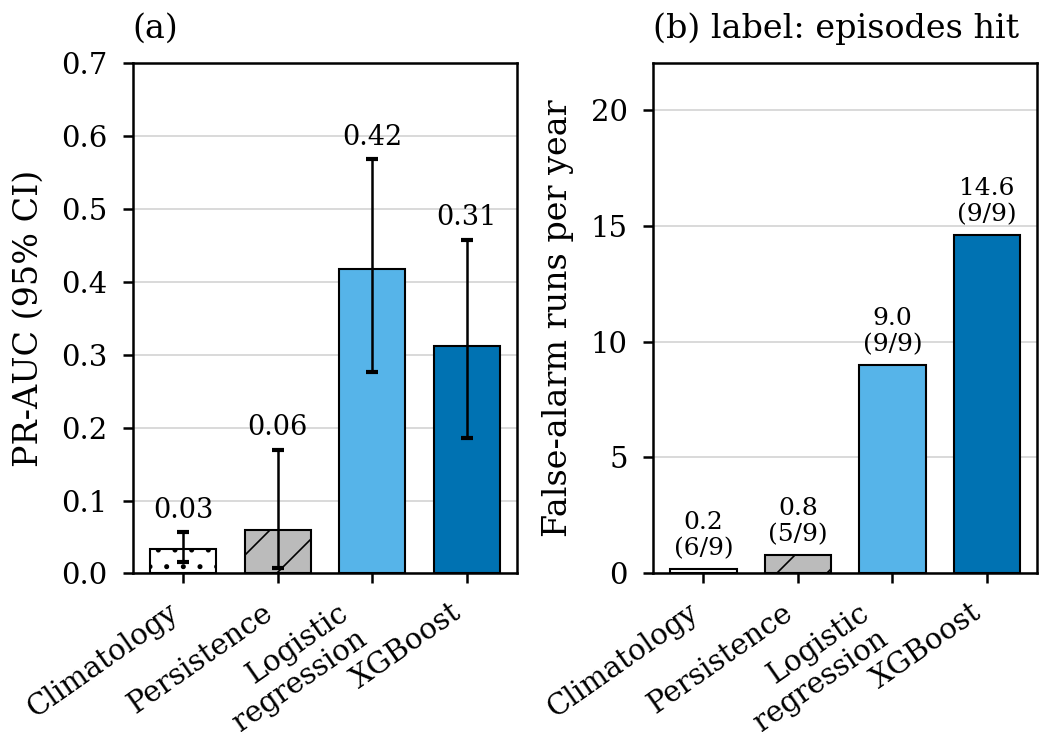
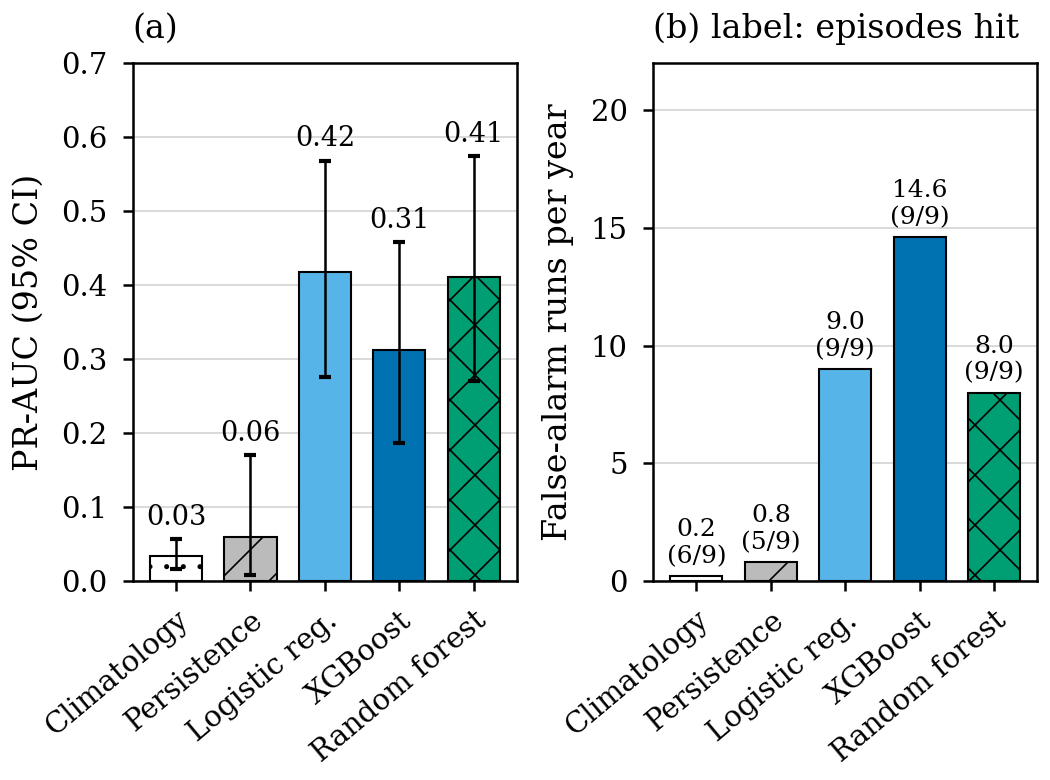
Add Random Forest to the heavy-rain model comparison

diff --git a/demo/ml/train.py b/demo/ml/train.py
@@ -19,6 +19,10 @@ Pre-declared before any result was seen (do not tune after looking at the test y
   The depth is chosen by validation average precision. Alert threshold: the one with the best F1 on validation.
 - Baselines on the same rows: monthly climatology, persistence (P(heavy next 24 h | last 24 h heavy)), and
   logistic regression on the same features.
+- Random Forest (added 2026-10-31 at the faculty's request, after the first test results had been seen; its
+  settings below were fixed before it was run on the test years): 300 trees, max_features sqrt, min_samples_leaf 20,
+  each tree on a 25% bootstrap sample, seed 7; max_depth in {8, 12, 16} chosen by validation average precision.
+  It is evaluated last so the earlier models' numbers and bootstrap draws are unchanged.
 - Intervals: 95% bootstrap over IST days (1,000 resamples), because neighbouring hours share 23 of 24 label hours.
 - No comparison with numerical weather prediction was made: Open-Meteo's historical forecast archive joins the
   first hours of successive model runs, so it is not a 24-hour-ahead forecast.
@@ -45,6 +49,7 @@ import time
 
 import numpy as np
 import xgboost as xgb
+from sklearn.ensemble import RandomForestClassifier
 from sklearn.linear_model import LogisticRegression
 from sklearn.metrics import average_precision_score, brier_score_loss, roc_auc_score
 from sklearn.preprocessing import StandardScaler
@@ -61,6 +66,7 @@ HORIZON = 24
 CENTRE = (13.0, 80.25)
 TRAIN, VAL, TEST = range(2000, 2017), range(2017, 2020), range(2020, 2025)
 DEPTHS = [2, 3, 4]
+RF_DEPTHS = [8, 12, 16]
 SEED = 7
 BOOT = 1000
 
@@ -220,12 +226,23 @@ def main():
     depth, n_trees, _, model = max(grid, key=lambda g: g[2])
     booster = model.get_booster()[: n_trees]
 
+    # Random Forest: depth by validation average precision, like XGBoost
+    rf_grid = []
+    for d in RF_DEPTHS:
+        f = RandomForestClassifier(n_estimators=300, max_depth=d, max_features="sqrt", min_samples_leaf=20, max_samples=0.25, n_jobs=-1, random_state=SEED)
+        f.fit(tr["X"], tr["y"])
+        ap = average_precision_score(va["y"], f.predict_proba(va["X"])[:, 1])
+        rf_grid.append((d, ap, f))
+        print(f"random forest depth {d}: validation AP {ap:.4f}")
+    rf_depth, _, forest = max(rf_grid, key=lambda g: g[1])
+
     def predictors():
         return {
             "Climatology (month)": lambda d: np.array([clim[m] for m in d["month"]]),
             "Persistence (last 24 h heavy)": lambda d: np.where(d["X"][:, 4] >= HEAVY_MM, pers[True], pers[False]),
             "Logistic regression": lambda d: logreg.predict_proba(scaler.transform(d["X"]))[:, 1],
             "XGBoost (proposed)": lambda d: booster.predict(xgb.DMatrix(d["X"])),
+            "Random Forest": lambda d: forest.predict_proba(d["X"])[:, 1],
         }
 
     rng = np.random.default_rng(SEED)
@@ -278,7 +295,7 @@ def main():
     imp = booster.get_score(importance_type="gain")
     imp = sorted(((FEATURES[int(k[1:])], v) for k, v in imp.items()), key=lambda kv: -kv[1])
 
-    write_report(counts, grid, depth, n_trees, rows, ep_rows, imp, thr, time.time() - t0)
+    write_report(counts, grid, depth, n_trees, rows, ep_rows, imp, thr, time.time() - t0, rf_grid, rf_depth)
     write_csv(rows)
 
 
@@ -286,7 +303,7 @@ def fmt_ci(v, ci):
     return f"{v:.3f} ({ci[0]:.3f}–{ci[1]:.3f})" if ci else f"{v:.3f}"
 
 
-def write_report(counts, grid, depth, n_trees, rows, ep_rows, imp, thr, secs):
+def write_report(counts, grid, depth, n_trees, rows, ep_rows, imp, thr, secs, rf_grid, rf_depth):
     L = []
     L.append("# Heavy-rain risk model (XGBoost)\n")
     L.append("Predicts the probability that the next 24 hours bring at least 64.5 mm of rain (IMD \"heavy rain\") in an ERA5 cell, from the weather up to now.")
@@ -303,6 +320,11 @@ def write_report(counts, grid, depth, n_trees, rows, ep_rows, imp, thr, secs):
     for d, n, ap, _ in grid:
         L.append(f"| {d} | {n} | {ap:.4f} |")
     L.append(f"\nChosen: max_depth {depth}, {n_trees} trees. Alert threshold {thr:.3f} (best F1 on validation).\n")
+    L.append("Random Forest (300 trees):\n")
+    L.append("| max_depth | Validation average precision |\n|---:|---:|")
+    for d, ap, _ in rf_grid:
+        L.append(f"| {d} | {ap:.4f} |")
+    L.append(f"\nChosen: max_depth {rf_depth}.\n")
     L.append("## Test results, Chennai cell (2020–2024)\n")
     L.append("ROC-AUC, PR-AUC and Brier with 95% bootstrap intervals over days. Thresholds were fixed on validation. Episode hit: at least one hour of the episode at or above the threshold. False-alarm runs: runs of alert hours that overlap no positive hour.\n")
     L.append("| Model | ROC-AUC | PR-AUC | Brier | Precision | Recall (hours) | Episodes hit | False-alarm runs / year |\n|---|---:|---:|---:|---:|---:|---:|---:|")
@@ -333,7 +355,7 @@ def write_report(counts, grid, depth, n_trees, rows, ep_rows, imp, thr, secs):
     L.append("- All nine training cells are within about 40 km of each other, so they are not independent samples.")
     L.append("- The most important feature is rain in the last 6 hours, and several episodes were first alerted after they began. Part of the episode hit rate comes from rain already falling: this is a nowcast of a heavy-rain day, not a long-lead early warning.")
     L.append("- The lead column searches from 48 hours before an episode, so an alert from an earlier, unrelated wet spell can appear as a long lead (for example a low peak probability with a large negative lead).")
-    L.append("- Logistic regression on the same features matched or beat XGBoost on the test years. XGBoost was the pre-declared model and is kept in the app; the test set was not used to choose between them.")
+    L.append("- Logistic regression and Random Forest on the same features both matched or beat XGBoost on the test years (Random Forest had the fewest false alarms). XGBoost was the pre-declared model and is kept in the app; the test set was not used to choose between them.")
     (RESULTS / "xgboost.md").write_text("\n".join(L) + "\n")
 
 

diff --git a/demo/figures/make_figures.py b/demo/figures/make_figures.py
@@ -621,8 +621,9 @@ def fig_priority():
 XGB_MODELS = [
     ("Climatology (month)", "Climatology", "white", "..."),
     ("Persistence (last 24 h heavy)", "Persistence", GREY, "//"),
-    ("Logistic regression", "Logistic\nregression", SKY, None),
+    ("Logistic regression", "Logistic reg.", SKY, None),
     ("XGBoost (proposed)", "XGBoost", BLUE, None),
+    ("Random Forest", "Random forest", GREEN, "xx"),
 ]
 
 
@@ -647,7 +648,7 @@ def fig_xgboost():
         fa.append(f)
         hits.append(md[name][6].replace(" of ", "/"))
 
-    fig, (ax_a, ax_b) = plt.subplots(1, 2, figsize=(SINGLE_W, 2.5), layout="constrained")
+    fig, (ax_a, ax_b) = plt.subplots(1, 2, figsize=(SINGLE_W, 2.6), layout="constrained")
     xs = range(len(XGB_MODELS))
     for x, (_, label, color, hatch), (m, lo, hi) in zip(xs, XGB_MODELS, pr):
         ax_a.bar(x, m, width=0.7, color=color, hatch=hatch, edgecolor=BLACK, linewidth=0.5,
@@ -664,7 +665,7 @@ def fig_xgboost():
     ax_b.set_title("(b) label: episodes hit", fontsize=8, loc="left")
     for ax in (ax_a, ax_b):
         ax.set_xticks(list(xs))
-        ax.set_xticklabels([label for _, label, *_ in XGB_MODELS], rotation=35, ha="right")
+        ax.set_xticklabels([label for _, label, *_ in XGB_MODELS], rotation=40, ha="right", rotation_mode="anchor")
         grid(ax, "y")
     save(fig, "fig_xgboost")
 

diff --git a/docs/DOCUMENTATION.md b/docs/DOCUMENTATION.md
@@ -588,8 +588,12 @@ Predicts the probability that the next 24 hours bring at least 64.5 mm of rain (
 - **Running in Node** (`heavyrain.js`): rebuilds the same features from the Open-Meteo forecast API's
   past hours and walks the exported trees (XGBoost JSON), comparing in float32 as XGBoost does. A test
   checks features and probabilities against Python on six fixture cases.
-- **Honest result**: logistic regression on the same features did as well or better on the test years
-  (Section 13). XGBoost was the pre-declared model and is kept; the test set was not used to choose.
+- **Comparison models** (same rows, features, split and threshold rule): monthly climatology,
+  persistence, logistic regression, and a Random Forest (300 trees, depth 8, 12 or 16 chosen on
+  validation; added at the faculty's request, its settings fixed before it saw the test years).
+- **Honest result**: logistic regression and Random Forest both did as well as or better than XGBoost on
+  the test years (Section 13). XGBoost was the pre-declared model and is kept in the app; the test set
+  was not used to choose.
 
 ---
 
@@ -664,7 +668,7 @@ each report before results. Values are mean ± 95% CI.
 | `priority.js --bed-scale 0.25 --out priority-stress` | Same, when beds are short | `priority-stress.md` |
 | `rescue.js` | Optimal vs first-come boat dispatch | `rescue.md` |
 | `relief.js` | Scheduled slots vs walk-in queues | `relief.md` |
-| `demo/ml/train.py` (Python) | Can past weather predict heavy rain in the next 24 h? | `xgboost.md` |
+| `demo/ml/train.py` (Python) | Can past weather predict heavy rain in the next 24 h? XGBoost vs Random Forest, logistic regression and two baselines | `xgboost.md` |
 | `fetch-routes.js` | One-time OSRM download for `routes.json` | |
 
 ### Headline results
@@ -691,9 +695,10 @@ each report before results. Values are mean ± 95% CI.
   and the longest queue from 658.5 to 21.4 people; first-visit service rises from 36.0% to 97.9%.
 - **Heavy-rain risk** (Chennai cell, test 2020–2024, 9 heavy-rain episodes): XGBoost ROC-AUC 0.989,
   PR-AUC 0.312 (95% CI 0.186–0.458), all 9 episodes alerted, 14.6 false-alarm runs a year. Logistic
-  regression: PR-AUC 0.418 (0.276–0.568), 9 of 9 episodes, 9.0 false-alarm runs a year. Monthly
-  climatology 0.034 and persistence 0.059. Both learned models far outperform the simple baselines;
-  XGBoost does not beat logistic regression. The label is ERA5 rain, not IMD-observed rain, and no
+  regression: PR-AUC 0.418 (0.276–0.568), 9 of 9 episodes, 9.0 false-alarm runs a year. Random Forest:
+  PR-AUC 0.411 (0.270–0.574), 9 of 9 episodes, 8.0 false-alarm runs a year (the fewest of the learned
+  models). Monthly climatology 0.034 and persistence 0.059. All three learned models far outperform
+  the simple baselines; their confidence intervals overlap, and XGBoost does not beat the other two. The label is ERA5 rain, not IMD-observed rain, and no
   comparison with a numerical weather forecast was made.
 
 Read each report's assumptions before quoting a number: several inputs (vulnerable share, shelter
@@ -771,7 +776,7 @@ Client lint: `cd demo/client && npm run lint`.
   shops are illustrative.
 - The water-level forecast is a statistical stand-in, not a trained hydrological model.
 - The heavy-rain model learns ERA5 rain, which understates local extremes, and runs live on Open-Meteo
-  forecast-API inputs rather than ERA5. It does not beat logistic regression and was not compared with
+  forecast-API inputs rather than ERA5. It does not beat logistic regression or Random Forest and was not compared with
   a numerical weather forecast. It is advisory and never triggers alerts.
 - ERA5 reanalysis underestimates peak rainfall; documented flooding is day-resolution only.
 - Fusion is advisory; alerts are still driven by sensor levels.

diff --git a/demo/server/experiments/results/xgboost.md b/demo/server/experiments/results/xgboost.md
@@ -2,7 +2,7 @@
 
 Predicts the probability that the next 24 hours bring at least 64.5 mm of rain (IMD "heavy rain") in an ERA5 cell, from the weather up to now.
 Data: Open-Meteo Historical Weather API, ERA5 reanalysis (models=era5), CC BY 4.0 (https://open-meteo.com/), hourly 2000–2024, the 3 × 3 block of 0.25° cells around Chennai. All six demo zones are in the Chennai cell (13.0 N, 80.25 E).
-Script: `demo/ml/train.py` (design pre-declared in its header). xgboost 3.4.1. Runtime 51 s.
+Script: `demo/ml/train.py` (design pre-declared in its header). xgboost 3.4.1. Runtime 260 s.
 
 ## Labels and splits
 
@@ -28,6 +28,16 @@ Train 2000–2016, validation 2017–2019, test 2020–2024. Events before 2020,
 
 Chosen: max_depth 3, 171 trees. Alert threshold 0.081 (best F1 on validation).
 
+Random Forest (300 trees):
+
+| max_depth | Validation average precision |
+|---:|---:|
+| 8 | 0.1587 |
+| 12 | 0.1615 |
+| 16 | 0.1524 |
+
+Chosen: max_depth 12.
+
 ## Test results, Chennai cell (2020–2024)
 
 ROC-AUC, PR-AUC and Brier with 95% bootstrap intervals over days. Thresholds were fixed on validation. Episode hit: at least one hour of the episode at or above the threshold. False-alarm runs: runs of alert hours that overlap no positive hour.
@@ -38,6 +48,7 @@ ROC-AUC, PR-AUC and Brier with 95% bootstrap intervals over days. Thresholds wer
 | Persistence (last 24 h heavy) | 0.614 (0.529–0.722) | 0.059 (0.008–0.170) | 0.006 (0.003–0.009) | 0.233 | 0.233 | 5 of 9 | 0.8 |
 | Logistic regression | 0.993 (0.988–0.996) | 0.418 (0.276–0.568) | 0.005 (0.003–0.007) | 0.379 | 0.744 | 9 of 9 | 9.0 |
 | XGBoost (proposed) | 0.989 (0.981–0.995) | 0.312 (0.186–0.458) | 0.005 (0.003–0.008) | 0.315 | 0.635 | 9 of 9 | 14.6 |
+| Random Forest | 0.990 (0.980–0.996) | 0.411 (0.270–0.574) | 0.004 (0.003–0.007) | 0.410 | 0.624 | 9 of 9 | 8.0 |
 
 ## Test results, all nine cells (secondary)
 
@@ -47,6 +58,7 @@ ROC-AUC, PR-AUC and Brier with 95% bootstrap intervals over days. Thresholds wer
 | Persistence (last 24 h heavy) | 0.594 | 0.041 | 0.0054 | 0.192 | 0.192 | 45 of 88 | 1.0 |
 | Logistic regression | 0.991 | 0.384 | 0.0045 | 0.355 | 0.705 | 80 of 88 | 8.8 |
 | XGBoost (proposed) | 0.989 | 0.285 | 0.0048 | 0.296 | 0.599 | 77 of 88 | 14.0 |
+| Random Forest | 0.988 | 0.383 | 0.0042 | 0.393 | 0.556 | 75 of 88 | 7.0 |
 
 ## Test episodes, Chennai cell
 
@@ -87,4 +99,4 @@ Start is the first issue hour whose next 24 hours reach 64.5 mm. Lead: hours fro
 - All nine training cells are within about 40 km of each other, so they are not independent samples.
 - The most important feature is rain in the last 6 hours, and several episodes were first alerted after they began. Part of the episode hit rate comes from rain already falling: this is a nowcast of a heavy-rain day, not a long-lead early warning.
 - The lead column searches from 48 hours before an episode, so an alert from an earlier, unrelated wet spell can appear as a long lead (for example a low peak probability with a large negative lead).
-- Logistic regression on the same features matched or beat XGBoost on the test years. XGBoost was the pre-declared model and is kept in the app; the test set was not used to choose between them.
+- Logistic regression and Random Forest on the same features both matched or beat XGBoost on the test years (Random Forest had the fewest false alarms). XGBoost was the pre-declared model and is kept in the app; the test set was not used to choose between them.

diff --git a/demo/figures/README.md b/demo/figures/README.md
@@ -55,7 +55,7 @@ The `.venv` directory is git-ignored.
 | `fig_relief` | Flood relief collection (single column): (a) mean and p90 queue wait (min); (b) max queue length at any shop (people); walk-in vs scheduled slots, mean ± 95% CI over 200 seeds. | `relief.js` → `results/relief.csv`, checked against `results/relief.md` |
 | `fig_priority` | Bed scarcity stress run (single column): % of vulnerable and general residents without a bed, everyone equal vs vulnerable first, mean ± 95% CI over 1,600 scenario runs. Shelter capacity × 0.25. | `priority.js --bed-scale 0.25 --out priority-stress` → `results/priority-stress.csv`, checked against `results/priority-stress.md` |
 
-| `fig_xgboost` | Heavy-rain risk models, Chennai cell, test years 2020–2024 (single column): (a) PR-AUC with 95% bootstrap CI over days; (b) false-alarm runs per year, labelled with heavy-rain episodes hit (of 9). Climatology, persistence, logistic regression and XGBoost. | `demo/ml/train.py` → `results/xgboost.csv`, checked against `results/xgboost.md` |
+| `fig_xgboost` | Heavy-rain risk models, Chennai cell, test years 2020–2024 (single column): (a) PR-AUC with 95% bootstrap CI over days; (b) false-alarm runs per year, labelled with heavy-rain episodes hit (of 9). Climatology, persistence, logistic regression, XGBoost and Random Forest. | `demo/ml/train.py` → `results/xgboost.csv`, checked against `results/xgboost.md` |
 
 ## Notes
 

diff --git a/demo/README.md b/demo/README.md
@@ -194,7 +194,7 @@ demo/ml/.venv/bin/python demo/ml/fetch_era5.py
 demo/ml/.venv/bin/python demo/ml/train.py
 ```
 
-On macOS `train.py` uses the OpenMP library bundled with scikit-learn, so no Homebrew install is needed. Results, including the honest finding that logistic regression does as well, are in `server/experiments/results/xgboost.md`.
+On macOS `train.py` uses the OpenMP library bundled with scikit-learn, so no Homebrew install is needed. Results, including the comparison with Random Forest and logistic regression (both do as well as or better than XGBoost), are in `server/experiments/results/xgboost.md`.
 
 ## Blockchain audit anchoring
 
